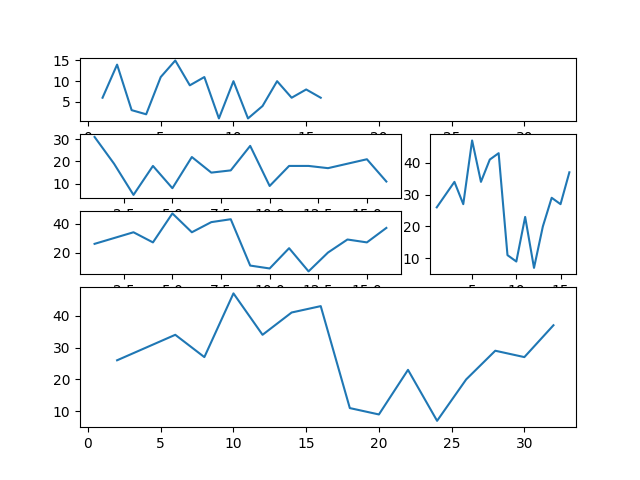
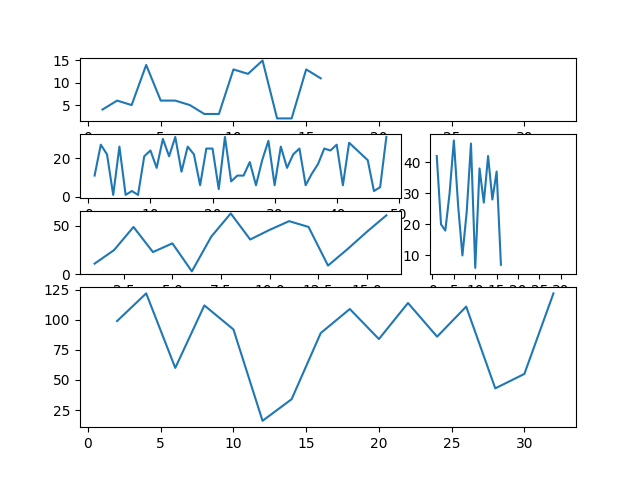
another way for subplots

diff --git a/subplot-12.py b/subplot-12.py
@@ -1,5 +1,5 @@
 ################################################################################################
-#	name:	subplot-11.py
+#	name:	subplot-12.py
 #	desc:	Subplot using matplotlib
 #	date:	2018-12-24
 #	Author:	conquistadorjd
@@ -10,8 +10,9 @@ import numpy as np
 print('*** Program Started ***')
 
 t= np.arange(1,17,1) 
+t2= np.arange(1,49,1) 
 y1= np.random.randint(1, 16,size=16)
-y2= np.random.randint(1, 32,size=16)
+y2= np.random.randint(1, 32,size=48)
 y3= np.random.randint(1, 48,size=16)
 y4= np.random.randint(1, 64,size=16)
 y5= np.random.randint(1, 124,size=16)
@@ -20,17 +21,16 @@ ax1 = plt.subplot2grid((5,3), (0,0), colspan=3, rowspan=1)
 plt.plot(t, y1)
 
 ax2 = plt.subplot2grid((5,3), (1,0), colspan=2,rowspan=1)
-plt.plot(t, y2)
+plt.plot(t2, y2)
 
-
-ax3 = plt.subplot2grid((5,3), (1, 2), colspan=2,rowspan=2)
+ax3 = plt.subplot2grid((5,3), (1, 2), colspan=2,rowspan=2,sharex=ax1)
 plt.plot(t, y3)
 
 ax4 = plt.subplot2grid((5,3), (2, 0), colspan=2,rowspan=1)
-plt.plot(t, y3)
+plt.plot(t, y4)
 
 ax5 = plt.subplot2grid((5,3), (3, 0), colspan=3,rowspan=2,sharex=ax1)
-plt.plot(t*2, y3)
+plt.plot(t*2, y5)
 
 # ax6 = plt.subplot2grid((5,3), (4, 0), colspan=3,rowspan=1,sharex=ax1)
 # plt.plot(t, y3)
